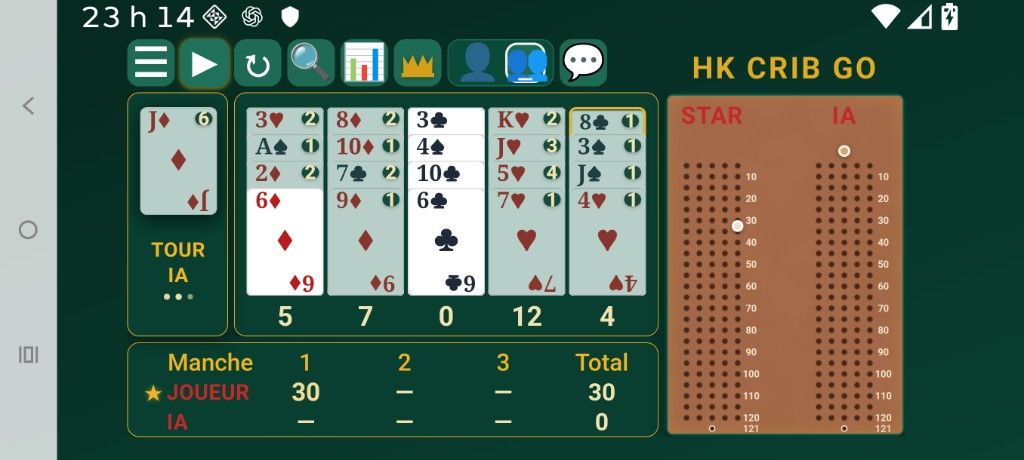
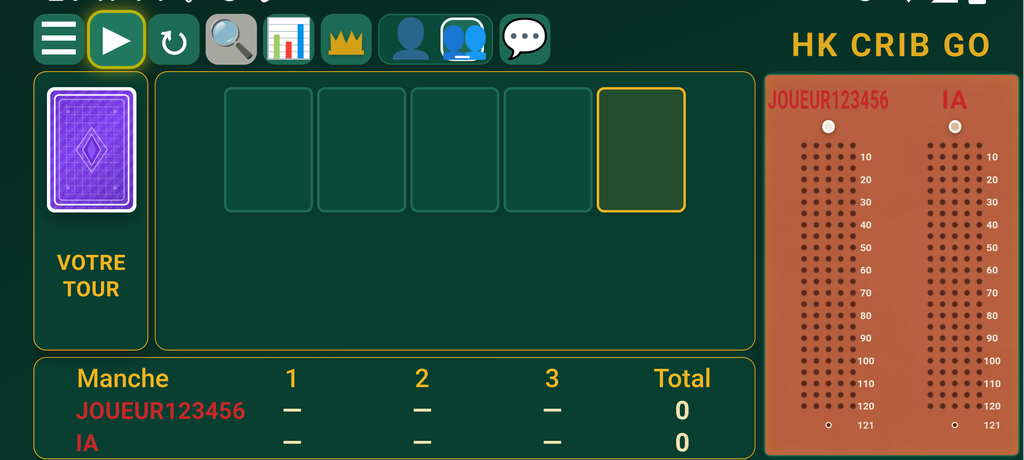
Update HK Crib GO presentation for board layout 2.0.10.
Refresh gallery and in-game screenshots, journal note on dual-track geometry, and study copy for long names and vertical rhythm.

diff --git a/projects/index.html b/projects/index.html
@@ -904,8 +904,8 @@ const projects = [
             problem: "Les versions existantes freinaient le plaisir : friction, interface confuse, ou parties peu fluides.",
             birth: "L’irritation est devenue un mandat : moderniser le rythme et l’UI, garder les règles intactes.",
             choices: "Android natif hors ligne, adversaire IA, statistiques et support intégrés pour une boucle produit complète.",
-            challenges: "Lisibilité du plateau, latence perçue, et support sans alourdir le jeu.",
-            experiments: "Plusieurs densités d’UI et niveaux d’IA ; les parcours trop techniques ont été abandonnés.",
+            challenges: "Lisibilité du plateau dual, latence perçue, et support sans alourdir le jeu.",
+            experiments: "Plusieurs densités d’UI et niveaux d’IA ; le plateau 2.0.10 verrouille rythme vertical et noms longs (jusqu’à 12).",
             learnings: "Un produit jouable vaut mieux qu’une démo parfaite. Suffisamment abouti pour passer au suivant."
         },
         template: `

diff --git a/journals/hk-crib-go.html b/journals/hk-crib-go.html
@@ -91,6 +91,16 @@
             </p>
         </article>
 
+        <article class="journal-entry">
+            <p class="journal-entry__meta" data-translate>Amélioration</p>
+            <h2 data-translate>Plateau dual validé (2.0.10)</h2>
+            <p data-translate>
+                La géométrie du plateau JOUEUR / IA est figée : ancrage 25&nbsp;% / 75&nbsp;%,
+                respirations verticales cohérentes, titres centrés, noms jusqu’à 12 caractères
+                compressés dans la largeur de zone. La lecture du score redevient immédiate.
+            </p>
+        </article>
+
         <article class="journal-entry journal-entry--next">
             <p class="journal-entry__meta" data-translate>Prochaine évolution</p>
             <h2 data-translate>Récompenser la progression, sans toucher l'équilibre</h2>
